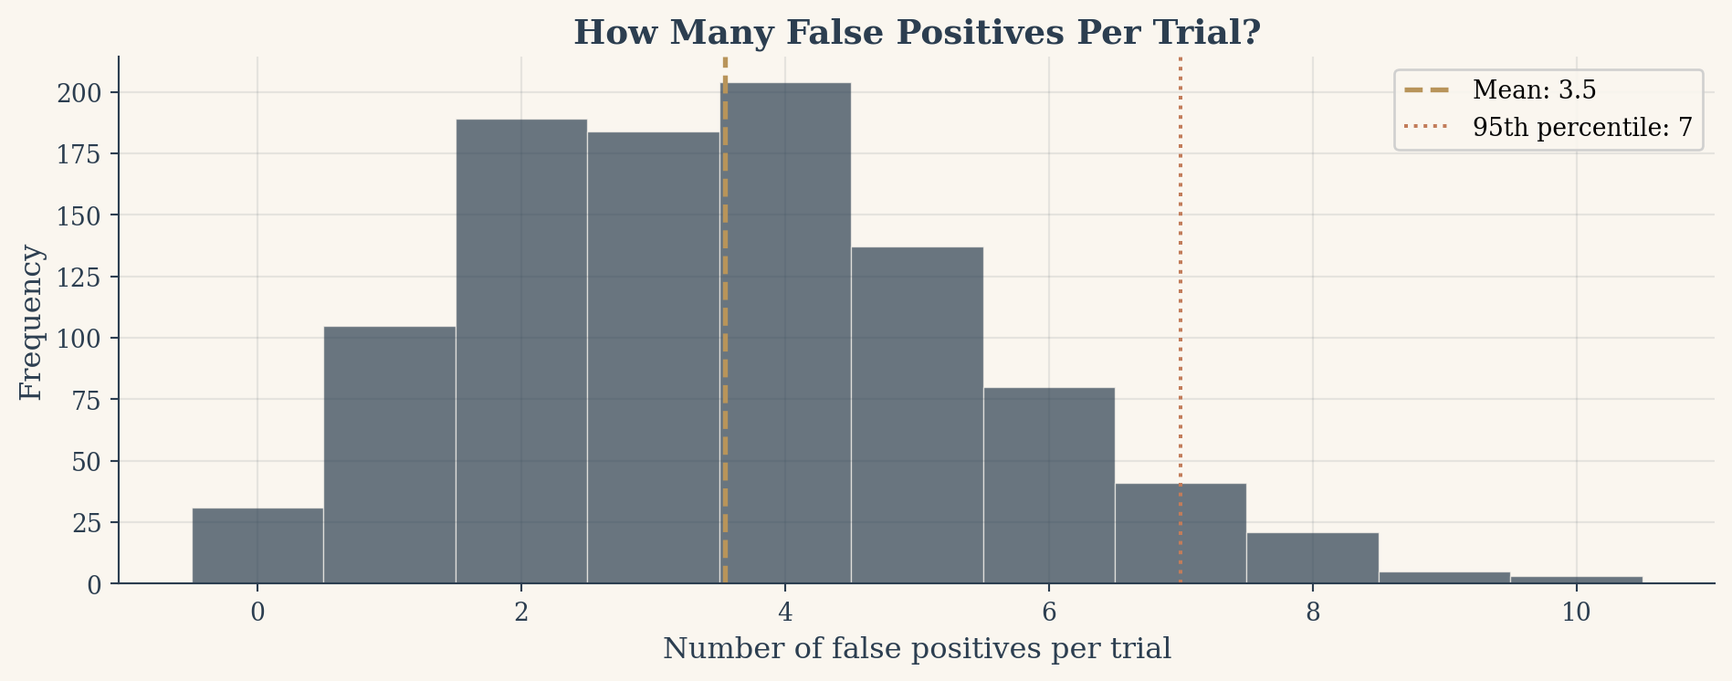
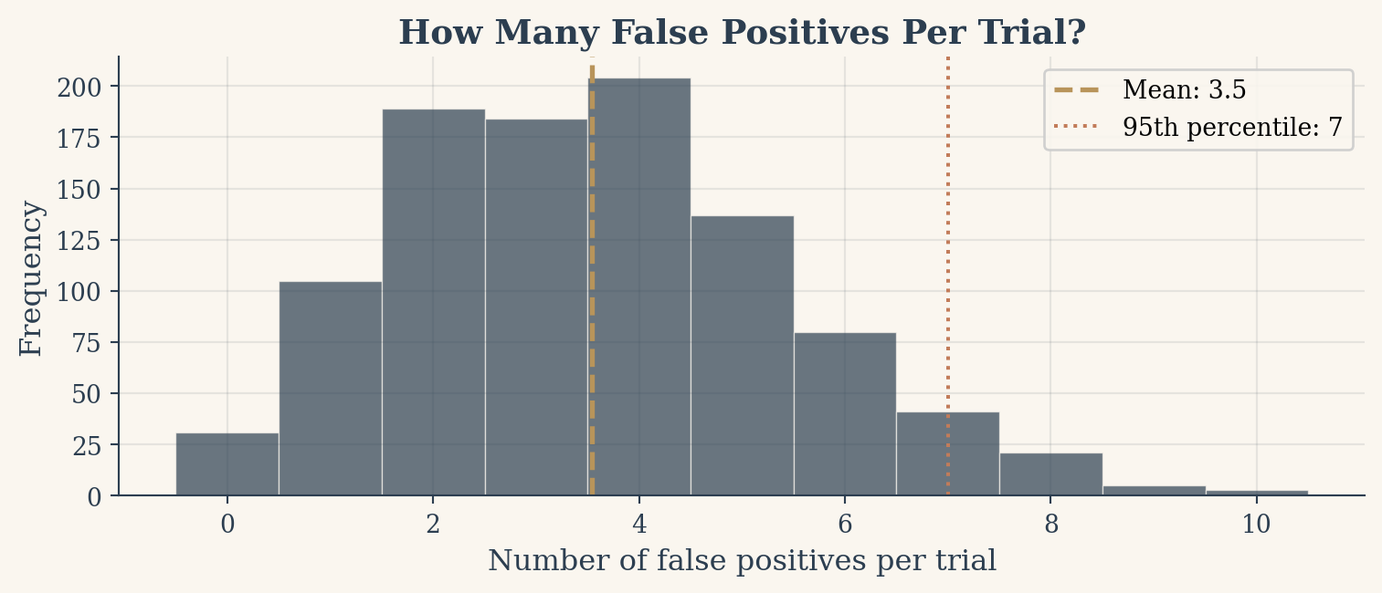
multiple-testing: constrain chart widths to prevent overflow

Changed region(s): [[0.0, 0.0308, 0.9941, 0.9846], [0.7455, 0.0923, 0.9941, 0.2769]]

diff --git a/docs/projects/multiple-testing/index.html b/docs/projects/multiple-testing/index.html
@@ -722,7 +722,7 @@ else { document.addEventListener('gsap-ready', initTheater); }
 <span id="cb1-20"><a href="#cb1-20" aria-hidden="true" tabindex="-1"></a>x <span class="op">=</span> np.arange(<span class="dv">30</span>, <span class="dv">71</span>)</span>
 <span id="cb1-21"><a href="#cb1-21" aria-hidden="true" tabindex="-1"></a>pmf <span class="op">=</span> binom.pmf(x, <span class="dv">100</span>, <span class="fl">0.5</span>)</span>
 <span id="cb1-22"><a href="#cb1-22" aria-hidden="true" tabindex="-1"></a></span>
-<span id="cb1-23"><a href="#cb1-23" aria-hidden="true" tabindex="-1"></a>fig, ax <span class="op">=</span> plt.subplots(figsize<span class="op">=</span>(<span class="dv">10</span>, <span class="dv">4</span>))</span>
+<span id="cb1-23"><a href="#cb1-23" aria-hidden="true" tabindex="-1"></a>fig, ax <span class="op">=</span> plt.subplots(figsize<span class="op">=</span>(<span class="dv">8</span>, <span class="fl">3.5</span>))</span>
 <span id="cb1-24"><a href="#cb1-24" aria-hidden="true" tabindex="-1"></a>colors <span class="op">=</span> [<span class="st">'#c27c5a'</span> <span class="cf">if</span> (v <span class="op">&lt;=</span> <span class="dv">100</span> <span class="op">-</span> heads <span class="kw">or</span> v <span class="op">&gt;=</span> heads) <span class="kw">and</span> heads <span class="op">&lt;</span> <span class="dv">50</span> <span class="cf">else</span></span>
 <span id="cb1-25"><a href="#cb1-25" aria-hidden="true" tabindex="-1"></a>          <span class="st">'#c27c5a'</span> <span class="cf">if</span> (v <span class="op">&gt;=</span> heads <span class="kw">or</span> v <span class="op">&lt;=</span> <span class="dv">100</span> <span class="op">-</span> heads) <span class="kw">and</span> heads <span class="op">&gt;=</span> <span class="dv">50</span> <span class="cf">else</span></span>
 <span id="cb1-26"><a href="#cb1-26" aria-hidden="true" tabindex="-1"></a>          <span class="st">'#2c3e50'</span> <span class="cf">for</span> v <span class="kw">in</span> x]</span>
@@ -749,7 +749,7 @@ else { document.addEventListener('gsap-ready', initTheater); }
 <div id="fig-null-dist" class="quarto-float quarto-figure quarto-figure-center anchored">
 <figure class="quarto-float quarto-float-fig figure">
 <div aria-describedby="fig-null-dist-caption-0ceaefa1-69ba-4598-a22c-09a6ac19f8ca">
-<img src="index_files/figure-html/fig-null-dist-output-1.png" width="949" height="374" class="figure-img">
+<img src="index_files/figure-html/fig-null-dist-output-1.png" width="757" height="325" class="figure-img">
 </div>
 <figcaption class="quarto-float-caption-bottom quarto-float-caption quarto-float-fig" id="fig-null-dist-caption-0ceaefa1-69ba-4598-a22c-09a6ac19f8ca">
 Figure&nbsp;1: Null distribution of heads in 100 fair coin flips. The observed value of 47 falls well within the expected range.
@@ -788,7 +788,7 @@ At alpha = 0.05, we fail to reject the null hypothesis.</code></pre>
 <span id="cb3-10"><a href="#cb3-10" aria-hidden="true" tabindex="-1"></a>m_range <span class="op">=</span> np.arange(<span class="dv">1</span>, <span class="dv">101</span>)</span>
 <span id="cb3-11"><a href="#cb3-11" aria-hidden="true" tabindex="-1"></a>fwer_theory <span class="op">=</span> <span class="dv">1</span> <span class="op">-</span> (<span class="dv">1</span> <span class="op">-</span> <span class="fl">0.05</span>)<span class="op">**</span>m_range</span>
 <span id="cb3-12"><a href="#cb3-12" aria-hidden="true" tabindex="-1"></a></span>
-<span id="cb3-13"><a href="#cb3-13" aria-hidden="true" tabindex="-1"></a>fig, ax <span class="op">=</span> plt.subplots(figsize<span class="op">=</span>(<span class="dv">10</span>, <span class="dv">4</span>))</span>
+<span id="cb3-13"><a href="#cb3-13" aria-hidden="true" tabindex="-1"></a>fig, ax <span class="op">=</span> plt.subplots(figsize<span class="op">=</span>(<span class="dv">8</span>, <span class="fl">3.5</span>))</span>
 <span id="cb3-14"><a href="#cb3-14" aria-hidden="true" tabindex="-1"></a>ax.plot(m_range, fwer_theory <span class="op">*</span> <span class="dv">100</span>, color<span class="op">=</span><span class="st">'#2c3e50'</span>, linewidth<span class="op">=</span><span class="fl">2.5</span>, label<span class="op">=</span><span class="st">'Theory: $1 - (1 - 0.05)^m$'</span>)</span>
 <span id="cb3-15"><a href="#cb3-15" aria-hidden="true" tabindex="-1"></a>ax.fill_between(m_range, <span class="dv">0</span>, fwer_theory <span class="op">*</span> <span class="dv">100</span>, color<span class="op">=</span><span class="st">'#2c3e50'</span>, alpha<span class="op">=</span><span class="fl">0.06</span>)</span>
 <span id="cb3-16"><a href="#cb3-16" aria-hidden="true" tabindex="-1"></a>ax.axhline(y<span class="op">=</span><span class="dv">5</span>, color<span class="op">=</span><span class="st">'#b8945a'</span>, linestyle<span class="op">=</span><span class="st">'--'</span>, linewidth<span class="op">=</span><span class="dv">1</span>, alpha<span class="op">=</span><span class="fl">0.6</span>, label<span class="op">=</span><span class="st">'Single-test threshold (5%)'</span>)</span>
@@ -815,7 +815,7 @@ At alpha = 0.05, we fail to reject the null hypothesis.</code></pre>
 <div id="fig-fwer-curve" class="quarto-float quarto-figure quarto-figure-center anchored">
 <figure class="quarto-float quarto-float-fig figure">
 <div aria-describedby="fig-fwer-curve-caption-0ceaefa1-69ba-4598-a22c-09a6ac19f8ca">
-<img src="index_files/figure-html/fig-fwer-curve-output-1.png" width="949" height="373" class="figure-img">
+<img src="index_files/figure-html/fig-fwer-curve-output-1.png" width="757" height="325" class="figure-img">
 </div>
 <figcaption class="quarto-float-caption-bottom quarto-float-caption quarto-float-fig" id="fig-fwer-curve-caption-0ceaefa1-69ba-4598-a22c-09a6ac19f8ca">
 Figure&nbsp;2: FWER grows rapidly with the number of tests. At 100 tests, a false positive is virtually guaranteed.
@@ -835,7 +835,7 @@ Simulations with at least one false positive: 96.9%</code></pre>
 <div id="cell-fig-fp-histogram" class="cell" data-execution_count="3">
 <details class="code-fold">
 <summary>Show the histogram code</summary>
-<div class="code-copy-outer-scaffold"><div class="sourceCode cell-code" id="cb5"><pre class="sourceCode python code-with-copy"><code class="sourceCode python"><span id="cb5-1"><a href="#cb5-1" aria-hidden="true" tabindex="-1"></a>fig, ax <span class="op">=</span> plt.subplots(figsize<span class="op">=</span>(<span class="dv">10</span>, <span class="dv">4</span>))</span>
+<div class="code-copy-outer-scaffold"><div class="sourceCode cell-code" id="cb5"><pre class="sourceCode python code-with-copy"><code class="sourceCode python"><span id="cb5-1"><a href="#cb5-1" aria-hidden="true" tabindex="-1"></a>fig, ax <span class="op">=</span> plt.subplots(figsize<span class="op">=</span>(<span class="dv">8</span>, <span class="fl">3.5</span>))</span>
 <span id="cb5-2"><a href="#cb5-2" aria-hidden="true" tabindex="-1"></a>bins <span class="op">=</span> np.arange(<span class="op">-</span><span class="fl">0.5</span>, <span class="bu">max</span>(fp_counts) <span class="op">+</span> <span class="fl">1.5</span>, <span class="dv">1</span>)</span>
 <span id="cb5-3"><a href="#cb5-3" aria-hidden="true" tabindex="-1"></a>ax.hist(fp_counts, bins<span class="op">=</span>bins, color<span class="op">=</span><span class="st">'#2c3e50'</span>, alpha<span class="op">=</span><span class="fl">0.7</span>, edgecolor<span class="op">=</span><span class="st">'#faf6ef'</span>, linewidth<span class="op">=</span><span class="fl">0.5</span>)</span>
 <span id="cb5-4"><a href="#cb5-4" aria-hidden="true" tabindex="-1"></a>ax.axvline(x<span class="op">=</span>fp_counts.mean(), color<span class="op">=</span><span class="st">'#b8945a'</span>, linewidth<span class="op">=</span><span class="dv">2</span>, linestyle<span class="op">=</span><span class="st">'--'</span>,</span>
@@ -860,7 +860,7 @@ Simulations with at least one false positive: 96.9%</code></pre>
 <div id="fig-fp-histogram" class="quarto-float quarto-figure quarto-figure-center anchored">
 <figure class="quarto-float quarto-float-fig figure">
 <div aria-describedby="fig-fp-histogram-caption-0ceaefa1-69ba-4598-a22c-09a6ac19f8ca">
-<img src="index_files/figure-html/fig-fp-histogram-output-1.png" width="949" height="373" class="figure-img">
+<img src="index_files/figure-html/fig-fp-histogram-output-1.png" width="757" height="325" class="figure-img">
 </div>
 <figcaption class="quarto-float-caption-bottom quarto-float-caption quarto-float-fig" id="fig-fp-histogram-caption-0ceaefa1-69ba-4598-a22c-09a6ac19f8ca">
 Figure&nbsp;3: Distribution of false positive counts across 1,000 simulations of 100 fair-coin tests.
@@ -881,7 +881,7 @@ Trials with 0 false positives: 31 out of 1000</code></pre>
 <p>The Bonferroni correction is the oldest and simplest fix. Instead of testing each hypothesis at <span class="math inline">\(\alpha = 0.05\)</span>, you test at <span class="math inline">\(\alpha / m\)</span>, where <span class="math inline">\(m\)</span> is the number of tests. With 100 tests, the new threshold becomes <span class="math inline">\(0.05 / 100 = 0.0005\)</span>.</p>
 <p>The intuition is elegant. You have a total error budget of 5%. You spread it equally across all <span class="math inline">\(m\)</span> tests. Each test gets only <span class="math inline">\(\alpha / m\)</span> of the budget. By the union bound, the probability that any test exceeds its share is at most <span class="math inline">\(m \cdot (\alpha / m) = \alpha\)</span>. The FWER stays controlled.</p>
 <p>The cost is power. When you make the threshold 100 times stricter, subtle real effects cannot clear the bar. In the theater above, we saw 20 true effects but Bonferroni only caught 3. That is the price of certainty: you protect against every false alarm, but you also silence most of the truth.</p>
-<div id="1ed2ae1e" class="cell" data-execution_count="4">
+<div id="9411db38" class="cell" data-execution_count="4">
 <details class="code-fold">
 <summary>Show the Bonferroni simulation</summary>
 <div class="code-copy-outer-scaffold"><div class="sourceCode cell-code" id="cb7"><pre class="sourceCode python code-with-copy"><code class="sourceCode python"><span id="cb7-1"><a href="#cb7-1" aria-hidden="true" tabindex="-1"></a>np.random.seed(<span class="dv">42</span>)</span>
@@ -935,7 +935,7 @@ Smallest p-value: 0.003518</code></pre>
 <span id="cb9-19"><a href="#cb9-19" aria-hidden="true" tabindex="-1"></a>bonf_line <span class="op">=</span> np.full(m, alpha <span class="op">/</span> m)</span>
 <span id="cb9-20"><a href="#cb9-20" aria-hidden="true" tabindex="-1"></a>holm_line <span class="op">=</span> alpha <span class="op">/</span> (m <span class="op">-</span> ranks <span class="op">+</span> <span class="dv">1</span>)</span>
 <span id="cb9-21"><a href="#cb9-21" aria-hidden="true" tabindex="-1"></a></span>
-<span id="cb9-22"><a href="#cb9-22" aria-hidden="true" tabindex="-1"></a>fig, ax <span class="op">=</span> plt.subplots(figsize<span class="op">=</span>(<span class="dv">10</span>, <span class="dv">5</span>))</span>
+<span id="cb9-22"><a href="#cb9-22" aria-hidden="true" tabindex="-1"></a>fig, ax <span class="op">=</span> plt.subplots(figsize<span class="op">=</span>(<span class="dv">8</span>, <span class="dv">4</span>))</span>
 <span id="cb9-23"><a href="#cb9-23" aria-hidden="true" tabindex="-1"></a>ax.scatter(ranks, sorted_p, c<span class="op">=</span><span class="st">'#2c3e50'</span>, s<span class="op">=</span><span class="dv">25</span>, alpha<span class="op">=</span><span class="fl">0.6</span>, zorder<span class="op">=</span><span class="dv">3</span>, label<span class="op">=</span><span class="st">'Sorted p-values'</span>)</span>
 <span id="cb9-24"><a href="#cb9-24" aria-hidden="true" tabindex="-1"></a>ax.plot(ranks, bonf_line, color<span class="op">=</span><span class="st">'#c27c5a'</span>, linewidth<span class="op">=</span><span class="dv">2</span>, linestyle<span class="op">=</span><span class="st">'--'</span>, label<span class="op">=</span><span class="ss">f'Bonferroni (</span><span class="sc">{</span>bonf_reject<span class="sc">}</span><span class="ss"> rejected)'</span>)</span>
 <span id="cb9-25"><a href="#cb9-25" aria-hidden="true" tabindex="-1"></a>ax.plot(ranks, holm_line, color<span class="op">=</span><span class="st">'#b8945a'</span>, linewidth<span class="op">=</span><span class="dv">2</span>, label<span class="op">=</span><span class="ss">f'Holm (</span><span class="sc">{</span><span class="bu">len</span>(holm_reject)<span class="sc">}</span><span class="ss"> rejected)'</span>)</span>
@@ -958,7 +958,7 @@ Smallest p-value: 0.003518</code></pre>
 <div id="fig-holm-vs-bonf" class="quarto-float quarto-figure quarto-figure-center anchored">
 <figure class="quarto-float quarto-float-fig figure">
 <div aria-describedby="fig-holm-vs-bonf-caption-0ceaefa1-69ba-4598-a22c-09a6ac19f8ca">
-<img src="index_files/figure-html/fig-holm-vs-bonf-output-1.png" width="949" height="469" class="figure-img">
+<img src="index_files/figure-html/fig-holm-vs-bonf-output-1.png" width="757" height="373" class="figure-img">
 </div>
 <figcaption class="quarto-float-caption-bottom quarto-float-caption quarto-float-fig" id="fig-holm-vs-bonf-caption-0ceaefa1-69ba-4598-a22c-09a6ac19f8ca">
 Figure&nbsp;4: Holm-Bonferroni uses a rising threshold (step-down) that catches more true effects than the flat Bonferroni line.
@@ -997,7 +997,7 @@ Holm rejected: 0</code></pre>
 <span id="cb11-14"><a href="#cb11-14" aria-hidden="true" tabindex="-1"></a>sorted_p_bh <span class="op">=</span> np.sort(p_values)</span>
 <span id="cb11-15"><a href="#cb11-15" aria-hidden="true" tabindex="-1"></a>bh_thresh <span class="op">=</span> np.arange(<span class="dv">1</span>, m <span class="op">+</span> <span class="dv">1</span>) <span class="op">*</span> <span class="fl">0.05</span> <span class="op">/</span> m</span>
 <span id="cb11-16"><a href="#cb11-16" aria-hidden="true" tabindex="-1"></a></span>
-<span id="cb11-17"><a href="#cb11-17" aria-hidden="true" tabindex="-1"></a>fig, ax <span class="op">=</span> plt.subplots(figsize<span class="op">=</span>(<span class="dv">10</span>, <span class="dv">5</span>))</span>
+<span id="cb11-17"><a href="#cb11-17" aria-hidden="true" tabindex="-1"></a>fig, ax <span class="op">=</span> plt.subplots(figsize<span class="op">=</span>(<span class="dv">8</span>, <span class="dv">4</span>))</span>
 <span id="cb11-18"><a href="#cb11-18" aria-hidden="true" tabindex="-1"></a>ax.scatter(ranks, sorted_p_bh, c<span class="op">=</span><span class="st">'#2c3e50'</span>, s<span class="op">=</span><span class="dv">25</span>, alpha<span class="op">=</span><span class="fl">0.6</span>, zorder<span class="op">=</span><span class="dv">3</span>, label<span class="op">=</span><span class="st">'Sorted p-values'</span>)</span>
 <span id="cb11-19"><a href="#cb11-19" aria-hidden="true" tabindex="-1"></a>ax.plot(ranks, bh_thresh, color<span class="op">=</span><span class="st">'#b8945a'</span>, linewidth<span class="op">=</span><span class="dv">2</span>, linestyle<span class="op">=</span><span class="st">'--'</span>, label<span class="op">=</span><span class="st">'BH threshold (q = 0.05)'</span>)</span>
 <span id="cb11-20"><a href="#cb11-20" aria-hidden="true" tabindex="-1"></a></span>
@@ -1030,7 +1030,7 @@ Holm rejected: 0</code></pre>
 <div id="fig-bh-procedure" class="quarto-float quarto-figure quarto-figure-center anchored">
 <figure class="quarto-float quarto-float-fig figure">
 <div aria-describedby="fig-bh-procedure-caption-0ceaefa1-69ba-4598-a22c-09a6ac19f8ca">
-<img src="index_files/figure-html/fig-bh-procedure-output-1.png" width="949" height="470" class="figure-img">
+<img src="index_files/figure-html/fig-bh-procedure-output-1.png" width="757" height="374" class="figure-img">
 </div>
 <figcaption class="quarto-float-caption-bottom quarto-float-caption quarto-float-fig" id="fig-bh-procedure-caption-0ceaefa1-69ba-4598-a22c-09a6ac19f8ca">
 Figure&nbsp;5: The BH procedure: sorted p-values against a rising threshold line. Everything below the line is rejected.
@@ -1085,7 +1085,7 @@ Bonferroni rejected: 0 out of 100</code></pre>
 <span id="cb13-32"><a href="#cb13-32" aria-hidden="true" tabindex="-1"></a>x_pos <span class="op">=</span> np.arange(<span class="bu">len</span>(methods))</span>
 <span id="cb13-33"><a href="#cb13-33" aria-hidden="true" tabindex="-1"></a>width <span class="op">=</span> <span class="fl">0.35</span></span>
 <span id="cb13-34"><a href="#cb13-34" aria-hidden="true" tabindex="-1"></a></span>
-<span id="cb13-35"><a href="#cb13-35" aria-hidden="true" tabindex="-1"></a>fig, ax <span class="op">=</span> plt.subplots(figsize<span class="op">=</span>(<span class="dv">10</span>, <span class="dv">5</span>))</span>
+<span id="cb13-35"><a href="#cb13-35" aria-hidden="true" tabindex="-1"></a>fig, ax <span class="op">=</span> plt.subplots(figsize<span class="op">=</span>(<span class="dv">8</span>, <span class="dv">4</span>))</span>
 <span id="cb13-36"><a href="#cb13-36" aria-hidden="true" tabindex="-1"></a>bars_tp <span class="op">=</span> ax.bar(x_pos <span class="op">-</span> width<span class="op">/</span><span class="dv">2</span>, tp, width, color<span class="op">=</span><span class="st">'#2c3e50'</span>, label<span class="op">=</span><span class="st">'True positives'</span>, alpha<span class="op">=</span><span class="fl">0.85</span>)</span>
 <span id="cb13-37"><a href="#cb13-37" aria-hidden="true" tabindex="-1"></a>bars_fp <span class="op">=</span> ax.bar(x_pos <span class="op">+</span> width<span class="op">/</span><span class="dv">2</span>, fp, width, color<span class="op">=</span><span class="st">'#b8945a'</span>, label<span class="op">=</span><span class="st">'False positives'</span>, alpha<span class="op">=</span><span class="fl">0.85</span>)</span>
 <span id="cb13-38"><a href="#cb13-38" aria-hidden="true" tabindex="-1"></a></span>
@@ -1117,7 +1117,7 @@ Bonferroni rejected: 0 out of 100</code></pre>
 <div id="fig-power-comparison" class="quarto-float quarto-figure quarto-figure-center anchored">
 <figure class="quarto-float quarto-float-fig figure">
 <div aria-describedby="fig-power-comparison-caption-0ceaefa1-69ba-4598-a22c-09a6ac19f8ca">
-<img src="index_files/figure-html/fig-power-comparison-output-1.png" width="949" height="469" class="figure-img">
+<img src="index_files/figure-html/fig-power-comparison-output-1.png" width="757" height="373" class="figure-img">
 </div>
 <figcaption class="quarto-float-caption-bottom quarto-float-caption quarto-float-fig" id="fig-power-comparison-caption-0ceaefa1-69ba-4598-a22c-09a6ac19f8ca">
 Figure&nbsp;6: Detection rates across correction methods. Stricter methods catch fewer true effects.
@@ -2130,7 +2130,7 @@ BH               True positives: 13/20  False positives: 1</code></pre>
 <span id="cb15-528"><a href="#cb15-528" aria-hidden="true" tabindex="-1"></a>x <span class="op">=</span> np.arange(<span class="dv">30</span>, <span class="dv">71</span>)</span>
 <span id="cb15-529"><a href="#cb15-529" aria-hidden="true" tabindex="-1"></a>pmf <span class="op">=</span> binom.pmf(x, <span class="dv">100</span>, <span class="fl">0.5</span>)</span>
 <span id="cb15-530"><a href="#cb15-530" aria-hidden="true" tabindex="-1"></a></span>
-<span id="cb15-531"><a href="#cb15-531" aria-hidden="true" tabindex="-1"></a>fig, ax <span class="op">=</span> plt.subplots(figsize<span class="op">=</span>(<span class="dv">10</span>, <span class="dv">4</span>))</span>
+<span id="cb15-531"><a href="#cb15-531" aria-hidden="true" tabindex="-1"></a>fig, ax <span class="op">=</span> plt.subplots(figsize<span class="op">=</span>(<span class="dv">8</span>, <span class="fl">3.5</span>))</span>
 <span id="cb15-532"><a href="#cb15-532" aria-hidden="true" tabindex="-1"></a>colors <span class="op">=</span> [<span class="st">'#c27c5a'</span> <span class="cf">if</span> (v <span class="op">&lt;=</span> <span class="dv">100</span> <span class="op">-</span> heads <span class="kw">or</span> v <span class="op">&gt;=</span> heads) <span class="kw">and</span> heads <span class="op">&lt;</span> <span class="dv">50</span> <span class="cf">else</span></span>
 <span id="cb15-533"><a href="#cb15-533" aria-hidden="true" tabindex="-1"></a>          <span class="st">'#c27c5a'</span> <span class="cf">if</span> (v <span class="op">&gt;=</span> heads <span class="kw">or</span> v <span class="op">&lt;=</span> <span class="dv">100</span> <span class="op">-</span> heads) <span class="kw">and</span> heads <span class="op">&gt;=</span> <span class="dv">50</span> <span class="cf">else</span></span>
 <span id="cb15-534"><a href="#cb15-534" aria-hidden="true" tabindex="-1"></a>          <span class="st">'#2c3e50'</span> <span class="cf">for</span> v <span class="kw">in</span> x]</span>
@@ -2186,7 +2186,7 @@ BH               True positives: 13/20  False positives: 1</code></pre>
 <span id="cb15-586"><a href="#cb15-586" aria-hidden="true" tabindex="-1"></a>m_range <span class="op">=</span> np.arange(<span class="dv">1</span>, <span class="dv">101</span>)</span>
 <span id="cb15-587"><a href="#cb15-587" aria-hidden="true" tabindex="-1"></a>fwer_theory <span class="op">=</span> <span class="dv">1</span> <span class="op">-</span> (<span class="dv">1</span> <span class="op">-</span> <span class="fl">0.05</span>)<span class="op">**</span>m_range</span>
 <span id="cb15-588"><a href="#cb15-588" aria-hidden="true" tabindex="-1"></a></span>
-<span id="cb15-589"><a href="#cb15-589" aria-hidden="true" tabindex="-1"></a>fig, ax <span class="op">=</span> plt.subplots(figsize<span class="op">=</span>(<span class="dv">10</span>, <span class="dv">4</span>))</span>
+<span id="cb15-589"><a href="#cb15-589" aria-hidden="true" tabindex="-1"></a>fig, ax <span class="op">=</span> plt.subplots(figsize<span class="op">=</span>(<span class="dv">8</span>, <span class="fl">3.5</span>))</span>
 <span id="cb15-590"><a href="#cb15-590" aria-hidden="true" tabindex="-1"></a>ax.plot(m_range, fwer_theory <span class="op">*</span> <span class="dv">100</span>, color<span class="op">=</span><span class="st">'#2c3e50'</span>, linewidth<span class="op">=</span><span class="fl">2.5</span>, label<span class="op">=</span><span class="st">'Theory: $1 - (1 - 0.05)^m$'</span>)</span>
 <span id="cb15-591"><a href="#cb15-591" aria-hidden="true" tabindex="-1"></a>ax.fill_between(m_range, <span class="dv">0</span>, fwer_theory <span class="op">*</span> <span class="dv">100</span>, color<span class="op">=</span><span class="st">'#2c3e50'</span>, alpha<span class="op">=</span><span class="fl">0.06</span>)</span>
 <span id="cb15-592"><a href="#cb15-592" aria-hidden="true" tabindex="-1"></a>ax.axhline(y<span class="op">=</span><span class="dv">5</span>, color<span class="op">=</span><span class="st">'#b8945a'</span>, linestyle<span class="op">=</span><span class="st">'--'</span>, linewidth<span class="op">=</span><span class="dv">1</span>, alpha<span class="op">=</span><span class="fl">0.6</span>, label<span class="op">=</span><span class="st">'Single-test threshold (5%)'</span>)</span>
@@ -2218,7 +2218,7 @@ BH               True positives: 13/20  False positives: 1</code></pre>
 <span id="cb15-620"><a href="#cb15-620" aria-hidden="true" tabindex="-1"></a><span class="co">#| code-summary: "Show the histogram code"</span></span>
 <span id="cb15-621"><a href="#cb15-621" aria-hidden="true" tabindex="-1"></a><span class="co">#| label: fig-fp-histogram</span></span>
 <span id="cb15-622"><a href="#cb15-622" aria-hidden="true" tabindex="-1"></a><span class="co">#| fig-cap: "Distribution of false positive counts across 1,000 simulations of 100 fair-coin tests."</span></span>
-<span id="cb15-623"><a href="#cb15-623" aria-hidden="true" tabindex="-1"></a>fig, ax <span class="op">=</span> plt.subplots(figsize<span class="op">=</span>(<span class="dv">10</span>, <span class="dv">4</span>))</span>
+<span id="cb15-623"><a href="#cb15-623" aria-hidden="true" tabindex="-1"></a>fig, ax <span class="op">=</span> plt.subplots(figsize<span class="op">=</span>(<span class="dv">8</span>, <span class="fl">3.5</span>))</span>
 <span id="cb15-624"><a href="#cb15-624" aria-hidden="true" tabindex="-1"></a>bins <span class="op">=</span> np.arange(<span class="op">-</span><span class="fl">0.5</span>, <span class="bu">max</span>(fp_counts) <span class="op">+</span> <span class="fl">1.5</span>, <span class="dv">1</span>)</span>
 <span id="cb15-625"><a href="#cb15-625" aria-hidden="true" tabindex="-1"></a>ax.hist(fp_counts, bins<span class="op">=</span>bins, color<span class="op">=</span><span class="st">'#2c3e50'</span>, alpha<span class="op">=</span><span class="fl">0.7</span>, edgecolor<span class="op">=</span><span class="st">'#faf6ef'</span>, linewidth<span class="op">=</span><span class="fl">0.5</span>)</span>
 <span id="cb15-626"><a href="#cb15-626" aria-hidden="true" tabindex="-1"></a>ax.axvline(x<span class="op">=</span>fp_counts.mean(), color<span class="op">=</span><span class="st">'#b8945a'</span>, linewidth<span class="op">=</span><span class="dv">2</span>, linestyle<span class="op">=</span><span class="st">'--'</span>,</span>
@@ -2301,7 +2301,7 @@ BH               True positives: 13/20  False positives: 1</code></pre>
 <span id="cb15-707"><a href="#cb15-707" aria-hidden="true" tabindex="-1"></a>bonf_line <span class="op">=</span> np.full(m, alpha <span class="op">/</span> m)</span>
 <span id="cb15-708"><a href="#cb15-708" aria-hidden="true" tabindex="-1"></a>holm_line <span class="op">=</span> alpha <span class="op">/</span> (m <span class="op">-</span> ranks <span class="op">+</span> <span class="dv">1</span>)</span>
 <span id="cb15-709"><a href="#cb15-709" aria-hidden="true" tabindex="-1"></a></span>
-<span id="cb15-710"><a href="#cb15-710" aria-hidden="true" tabindex="-1"></a>fig, ax <span class="op">=</span> plt.subplots(figsize<span class="op">=</span>(<span class="dv">10</span>, <span class="dv">5</span>))</span>
+<span id="cb15-710"><a href="#cb15-710" aria-hidden="true" tabindex="-1"></a>fig, ax <span class="op">=</span> plt.subplots(figsize<span class="op">=</span>(<span class="dv">8</span>, <span class="dv">4</span>))</span>
 <span id="cb15-711"><a href="#cb15-711" aria-hidden="true" tabindex="-1"></a>ax.scatter(ranks, sorted_p, c<span class="op">=</span><span class="st">'#2c3e50'</span>, s<span class="op">=</span><span class="dv">25</span>, alpha<span class="op">=</span><span class="fl">0.6</span>, zorder<span class="op">=</span><span class="dv">3</span>, label<span class="op">=</span><span class="st">'Sorted p-values'</span>)</span>
 <span id="cb15-712"><a href="#cb15-712" aria-hidden="true" tabindex="-1"></a>ax.plot(ranks, bonf_line, color<span class="op">=</span><span class="st">'#c27c5a'</span>, linewidth<span class="op">=</span><span class="dv">2</span>, linestyle<span class="op">=</span><span class="st">'--'</span>, label<span class="op">=</span><span class="ss">f'Bonferroni (</span><span class="sc">{</span>bonf_reject<span class="sc">}</span><span class="ss"> rejected)'</span>)</span>
 <span id="cb15-713"><a href="#cb15-713" aria-hidden="true" tabindex="-1"></a>ax.plot(ranks, holm_line, color<span class="op">=</span><span class="st">'#b8945a'</span>, linewidth<span class="op">=</span><span class="dv">2</span>, label<span class="op">=</span><span class="ss">f'Holm (</span><span class="sc">{</span><span class="bu">len</span>(holm_reject)<span class="sc">}</span><span class="ss"> rejected)'</span>)</span>
@@ -2351,7 +2351,7 @@ BH               True positives: 13/20  False positives: 1</code></pre>
 <span id="cb15-759"><a href="#cb15-759" aria-hidden="true" tabindex="-1"></a>sorted_p_bh <span class="op">=</span> np.sort(p_values)</span>
 <span id="cb15-760"><a href="#cb15-760" aria-hidden="true" tabindex="-1"></a>bh_thresh <span class="op">=</span> np.arange(<span class="dv">1</span>, m <span class="op">+</span> <span class="dv">1</span>) <span class="op">*</span> <span class="fl">0.05</span> <span class="op">/</span> m</span>
 <span id="cb15-761"><a href="#cb15-761" aria-hidden="true" tabindex="-1"></a></span>
-<span id="cb15-762"><a href="#cb15-762" aria-hidden="true" tabindex="-1"></a>fig, ax <span class="op">=</span> plt.subplots(figsize<span class="op">=</span>(<span class="dv">10</span>, <span class="dv">5</span>))</span>
+<span id="cb15-762"><a href="#cb15-762" aria-hidden="true" tabindex="-1"></a>fig, ax <span class="op">=</span> plt.subplots(figsize<span class="op">=</span>(<span class="dv">8</span>, <span class="dv">4</span>))</span>
 <span id="cb15-763"><a href="#cb15-763" aria-hidden="true" tabindex="-1"></a>ax.scatter(ranks, sorted_p_bh, c<span class="op">=</span><span class="st">'#2c3e50'</span>, s<span class="op">=</span><span class="dv">25</span>, alpha<span class="op">=</span><span class="fl">0.6</span>, zorder<span class="op">=</span><span class="dv">3</span>, label<span class="op">=</span><span class="st">'Sorted p-values'</span>)</span>
 <span id="cb15-764"><a href="#cb15-764" aria-hidden="true" tabindex="-1"></a>ax.plot(ranks, bh_thresh, color<span class="op">=</span><span class="st">'#b8945a'</span>, linewidth<span class="op">=</span><span class="dv">2</span>, linestyle<span class="op">=</span><span class="st">'--'</span>, label<span class="op">=</span><span class="st">'BH threshold (q = 0.05)'</span>)</span>
 <span id="cb15-765"><a href="#cb15-765" aria-hidden="true" tabindex="-1"></a></span>
@@ -2423,7 +2423,7 @@ BH               True positives: 13/20  False positives: 1</code></pre>
 <span id="cb15-833"><a href="#cb15-833" aria-hidden="true" tabindex="-1"></a>x_pos <span class="op">=</span> np.arange(<span class="bu">len</span>(methods))</span>
 <span id="cb15-834"><a href="#cb15-834" aria-hidden="true" tabindex="-1"></a>width <span class="op">=</span> <span class="fl">0.35</span></span>
 <span id="cb15-835"><a href="#cb15-835" aria-hidden="true" tabindex="-1"></a></span>
-<span id="cb15-836"><a href="#cb15-836" aria-hidden="true" tabindex="-1"></a>fig, ax <span class="op">=</span> plt.subplots(figsize<span class="op">=</span>(<span class="dv">10</span>, <span class="dv">5</span>))</span>
+<span id="cb15-836"><a href="#cb15-836" aria-hidden="true" tabindex="-1"></a>fig, ax <span class="op">=</span> plt.subplots(figsize<span class="op">=</span>(<span class="dv">8</span>, <span class="dv">4</span>))</span>
 <span id="cb15-837"><a href="#cb15-837" aria-hidden="true" tabindex="-1"></a>bars_tp <span class="op">=</span> ax.bar(x_pos <span class="op">-</span> width<span class="op">/</span><span class="dv">2</span>, tp, width, color<span class="op">=</span><span class="st">'#2c3e50'</span>, label<span class="op">=</span><span class="st">'True positives'</span>, alpha<span class="op">=</span><span class="fl">0.85</span>)</span>
 <span id="cb15-838"><a href="#cb15-838" aria-hidden="true" tabindex="-1"></a>bars_fp <span class="op">=</span> ax.bar(x_pos <span class="op">+</span> width<span class="op">/</span><span class="dv">2</span>, fp, width, color<span class="op">=</span><span class="st">'#b8945a'</span>, label<span class="op">=</span><span class="st">'False positives'</span>, alpha<span class="op">=</span><span class="fl">0.85</span>)</span>
 <span id="cb15-839"><a href="#cb15-839" aria-hidden="true" tabindex="-1"></a></span>

diff --git a/docs/styles.css b/docs/styles.css
@@ -2141,6 +2141,18 @@ html {
 
 /* ---------- Multiple Testing Post ---------- */
 
+.quarto-figure,
+.quarto-figure img,
+.cell-output-display img,
+.cell-output-display figure,
+.cell-output-display figure img {
+  max-width: 800px !important;
+  width: 100% !important;
+  height: auto !important;
+  display: block;
+  margin: 1rem auto;
+}
+
 .mt-grid {
   display: grid;
   grid-template-columns: repeat(10, 1fr);

diff --git a/styles.css b/styles.css
@@ -2141,6 +2141,18 @@ html {
 
 /* ---------- Multiple Testing Post ---------- */
 
+.quarto-figure,
+.quarto-figure img,
+.cell-output-display img,
+.cell-output-display figure,
+.cell-output-display figure img {
+  max-width: 800px !important;
+  width: 100% !important;
+  height: auto !important;
+  display: block;
+  margin: 1rem auto;
+}
+
 .mt-grid {
   display: grid;
   grid-template-columns: repeat(10, 1fr);
